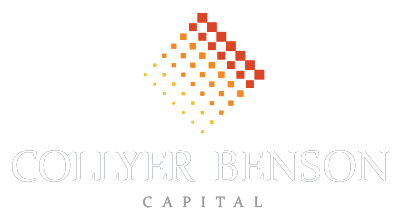
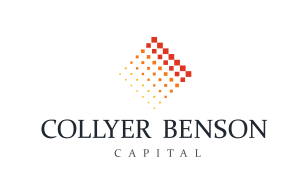
Update sponsors

diff --git a/index.html b/index.html
@@ -62,13 +62,16 @@
                     <h2 style="color:#34495E">Sponsors</h2>
                     <div class="sponsor-images text-center">
                         <a href="http://northern-secondary.com" target="_blank" style="text-decoration:none;border:none">
-                            <img src="assets/images/northern.png" alt="Northern Secondary School" style="max-width:150px" />
+                            <img src="assets/images/northern.png" alt="Northern" style="max-width:150px" />
                         </a>
                         <a href="http://informatica.com" target="_blank" style="text-decoration:none;border:none">
                             <img src="assets/images/informatica.png" alt="Informatica" style="max-width:250px" />
                         </a>
                         <a href="http://dotto-one.com" target="_blank" style="text-decoration:none;border:none">
-                            <img src="assets/images/dotto-one.png" alt="Dotto-One" style="max-width:250px" />
+                            <img src="assets/images/dotto-one.png" alt="Dotto-One" style="max-width:225px" />
+                        </a>
+                        <a href="http://collyerbenson.com" target="_blank" style="text-decoration:none;border:none">
+                            <img src="assets/images/collyerbenson.png" alt="Collyer Benson" style="max-width:250px" />
                         </a>
                         <a href="http://github.com" target="_blank" style="text-decoration:none;border:none">
                             <img src="assets/images/github.png" alt="GitHub" style="max-width:250px" />
